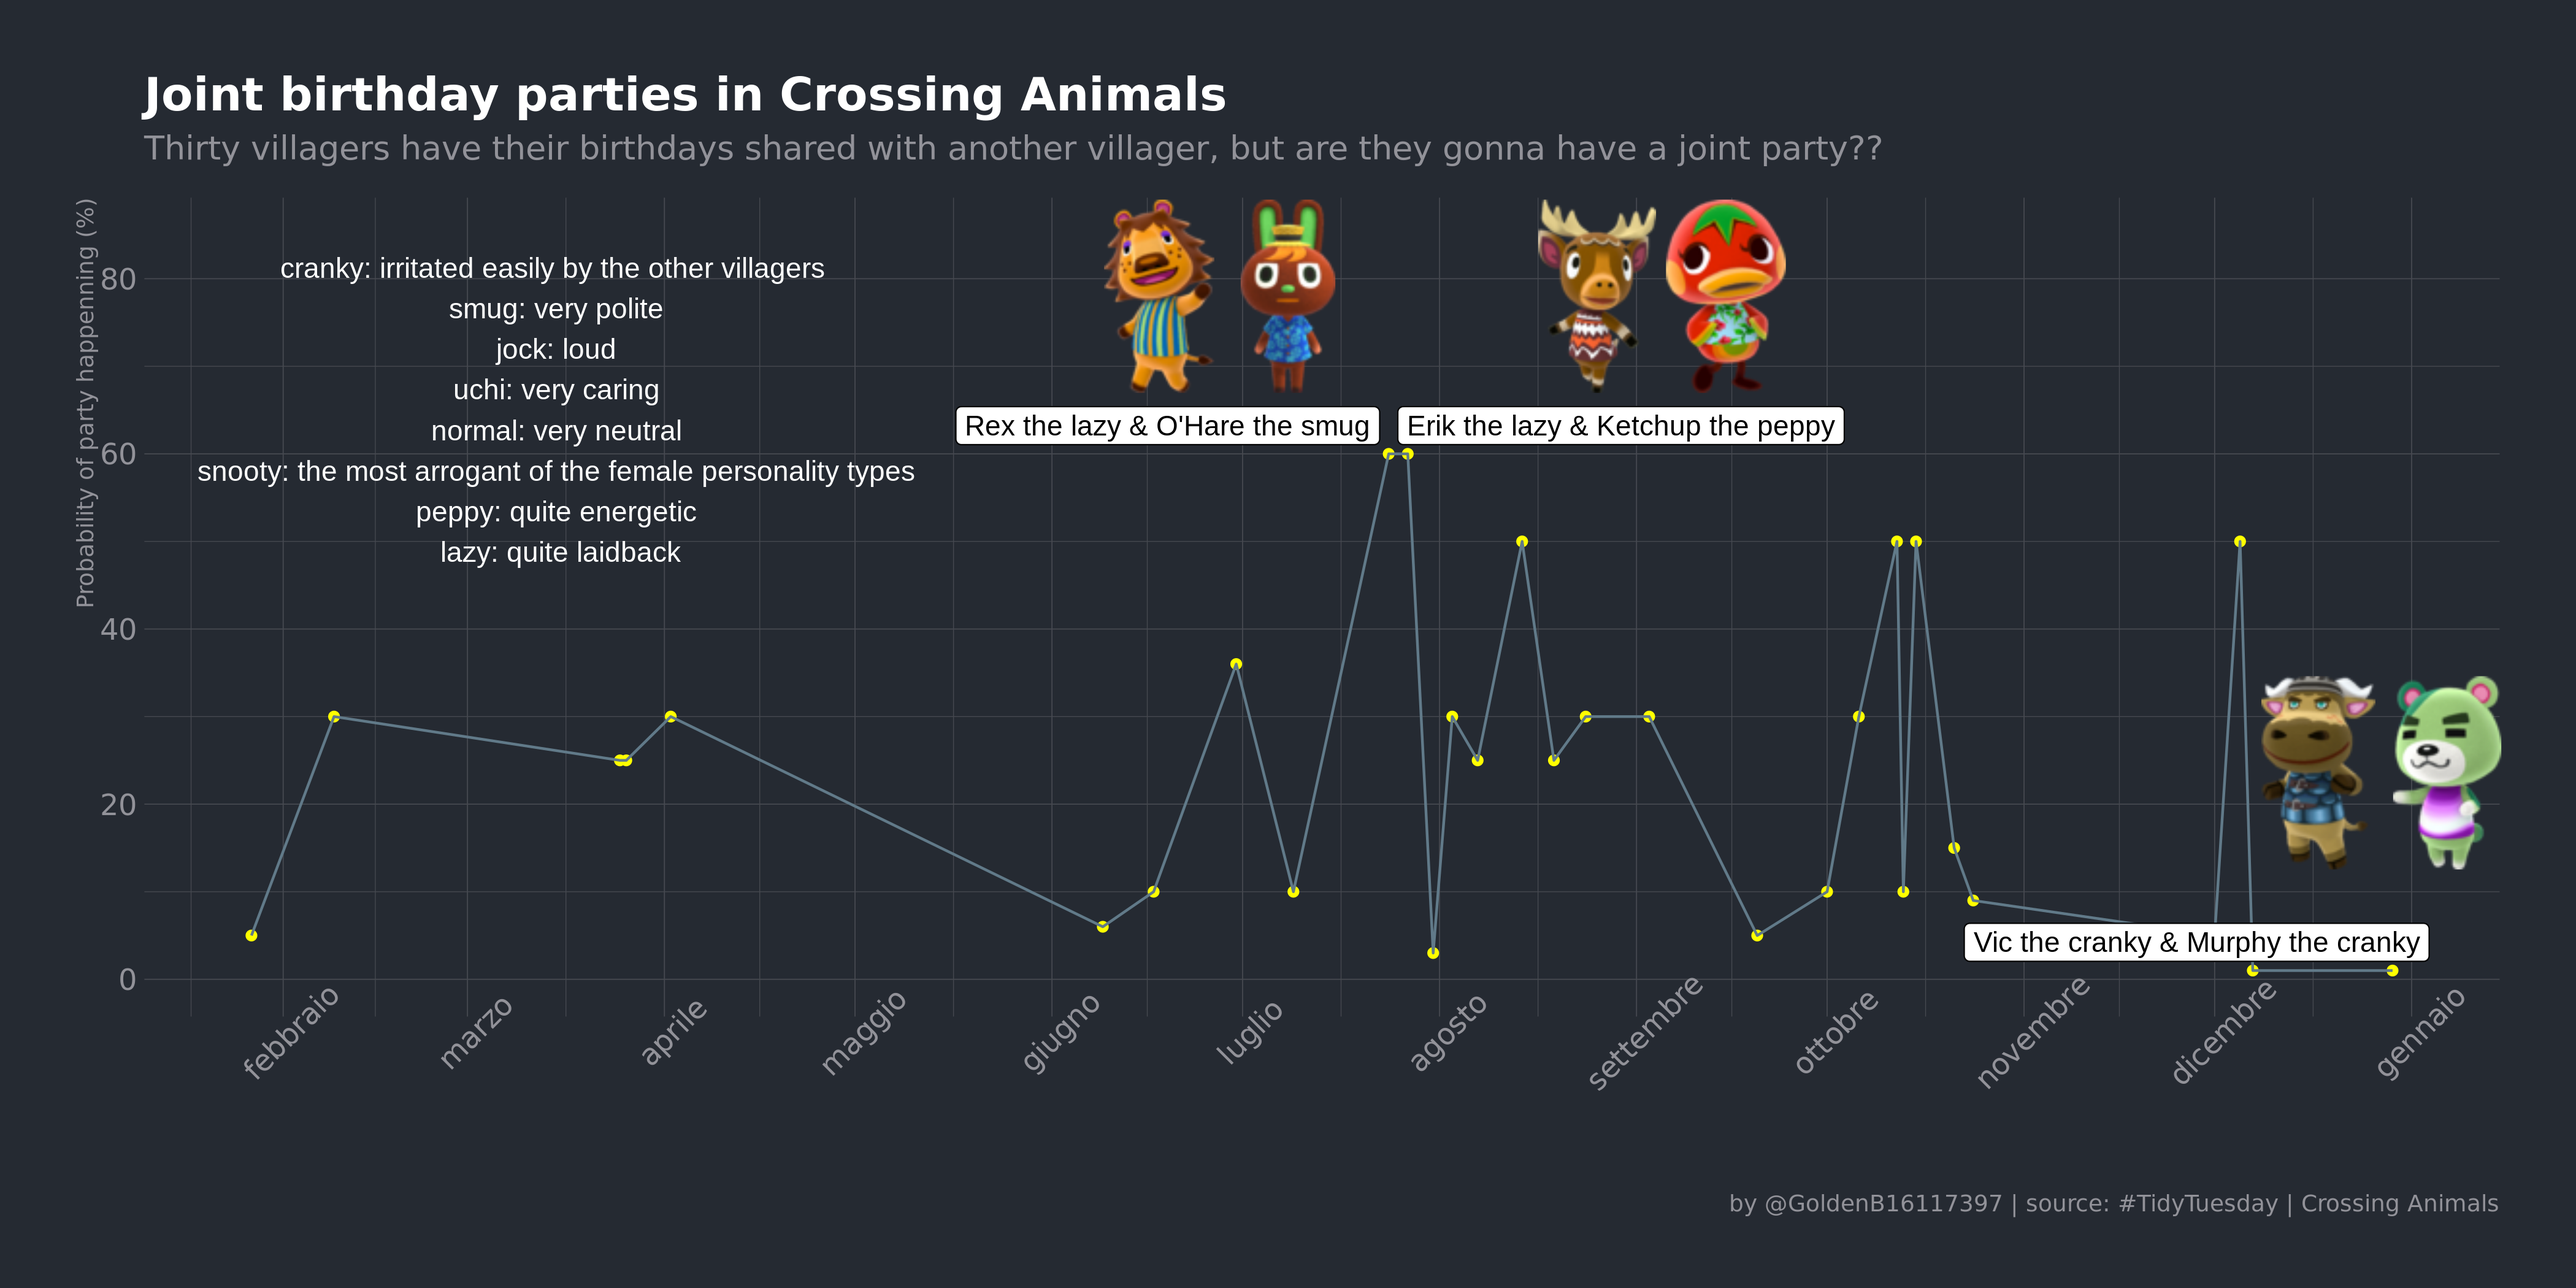
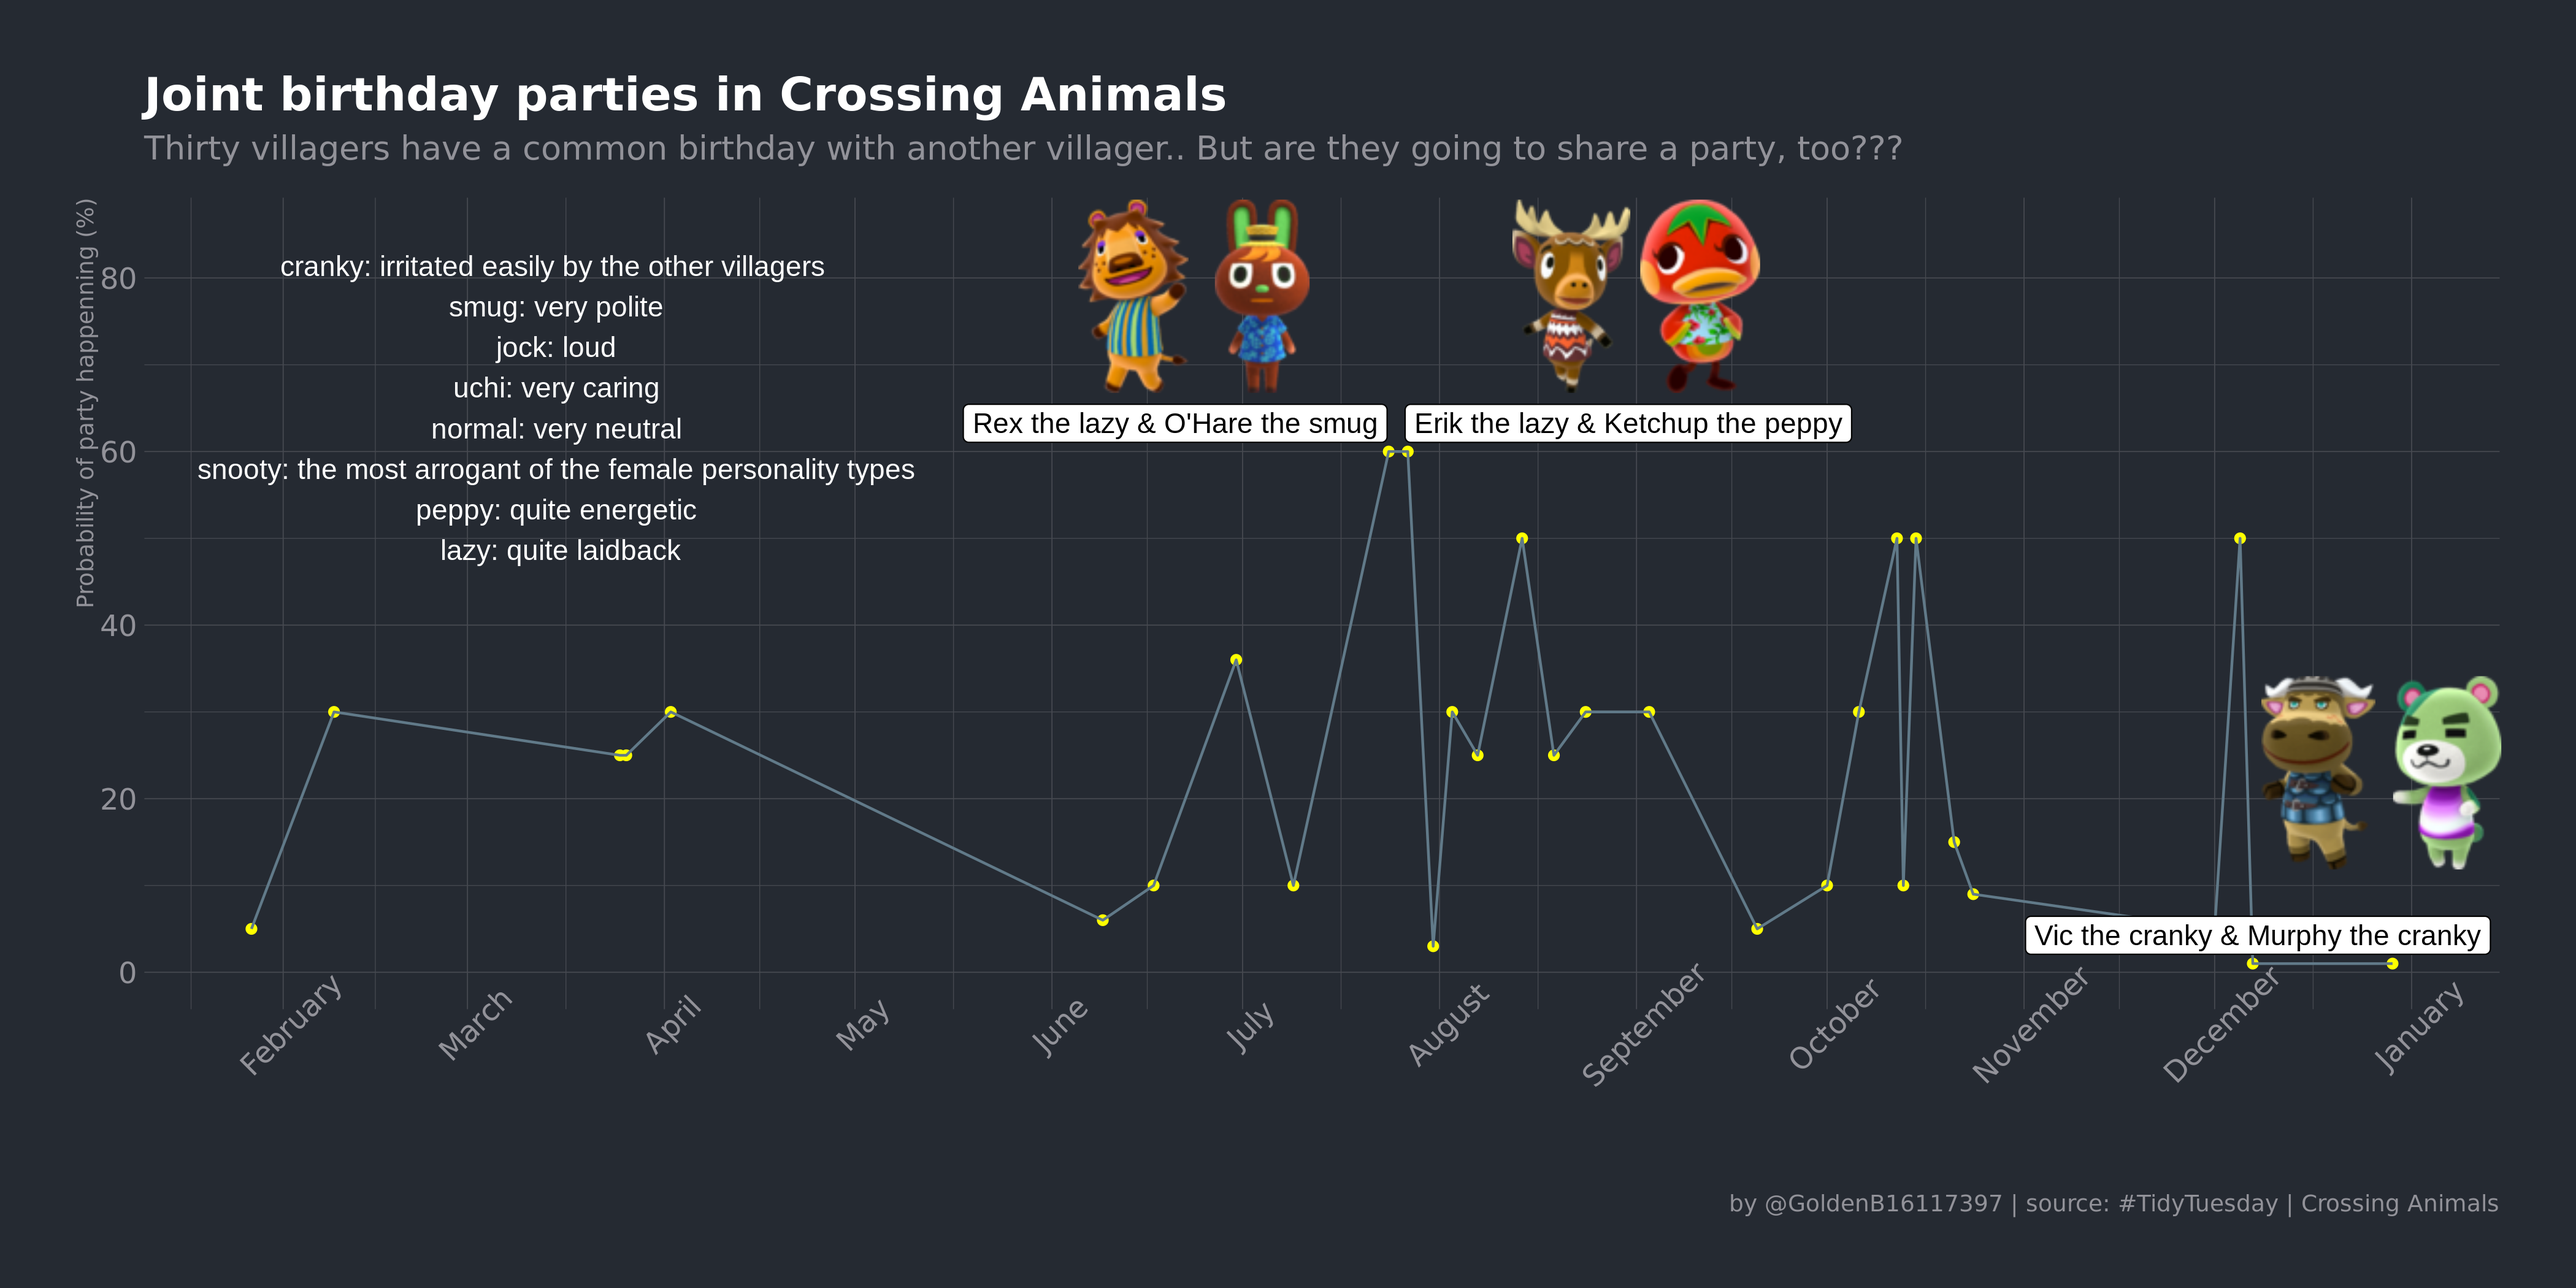
Animal Crossing

diff --git a/README.md b/README.md
@@ -14,9 +14,9 @@ the last one in time.
 ### Year 2020 Episode 19: Animal Crossing - New Horizons
 
 For this episode i’ve explored quite a lot trying to find something
-interesting until i came up with this plot.. Still have to figure out
-why the months are in italian.. and why i couldnt’ set the x\_limits
-properly…
+interesting until i came up with this plot… Still have to figure out why
+the months are in italian.. and why i couldnt’ set the x\_limits
+properly….
 
 ![Animal Crossing](plots/2020_19/animal_crossing.png)
 
